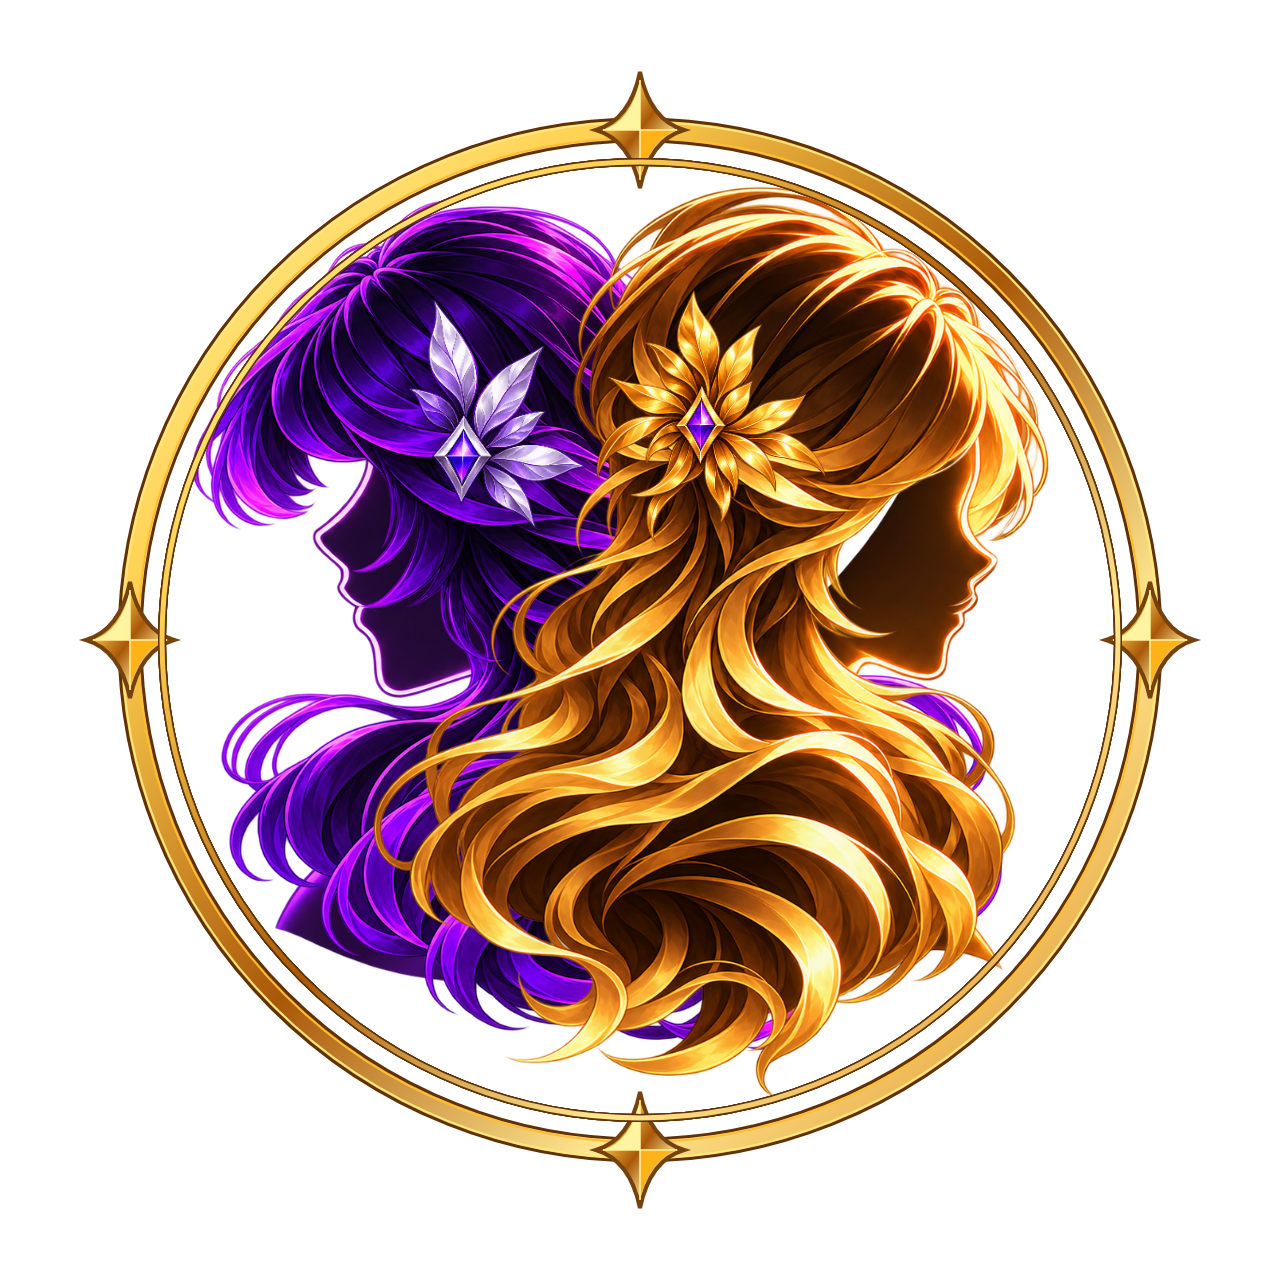
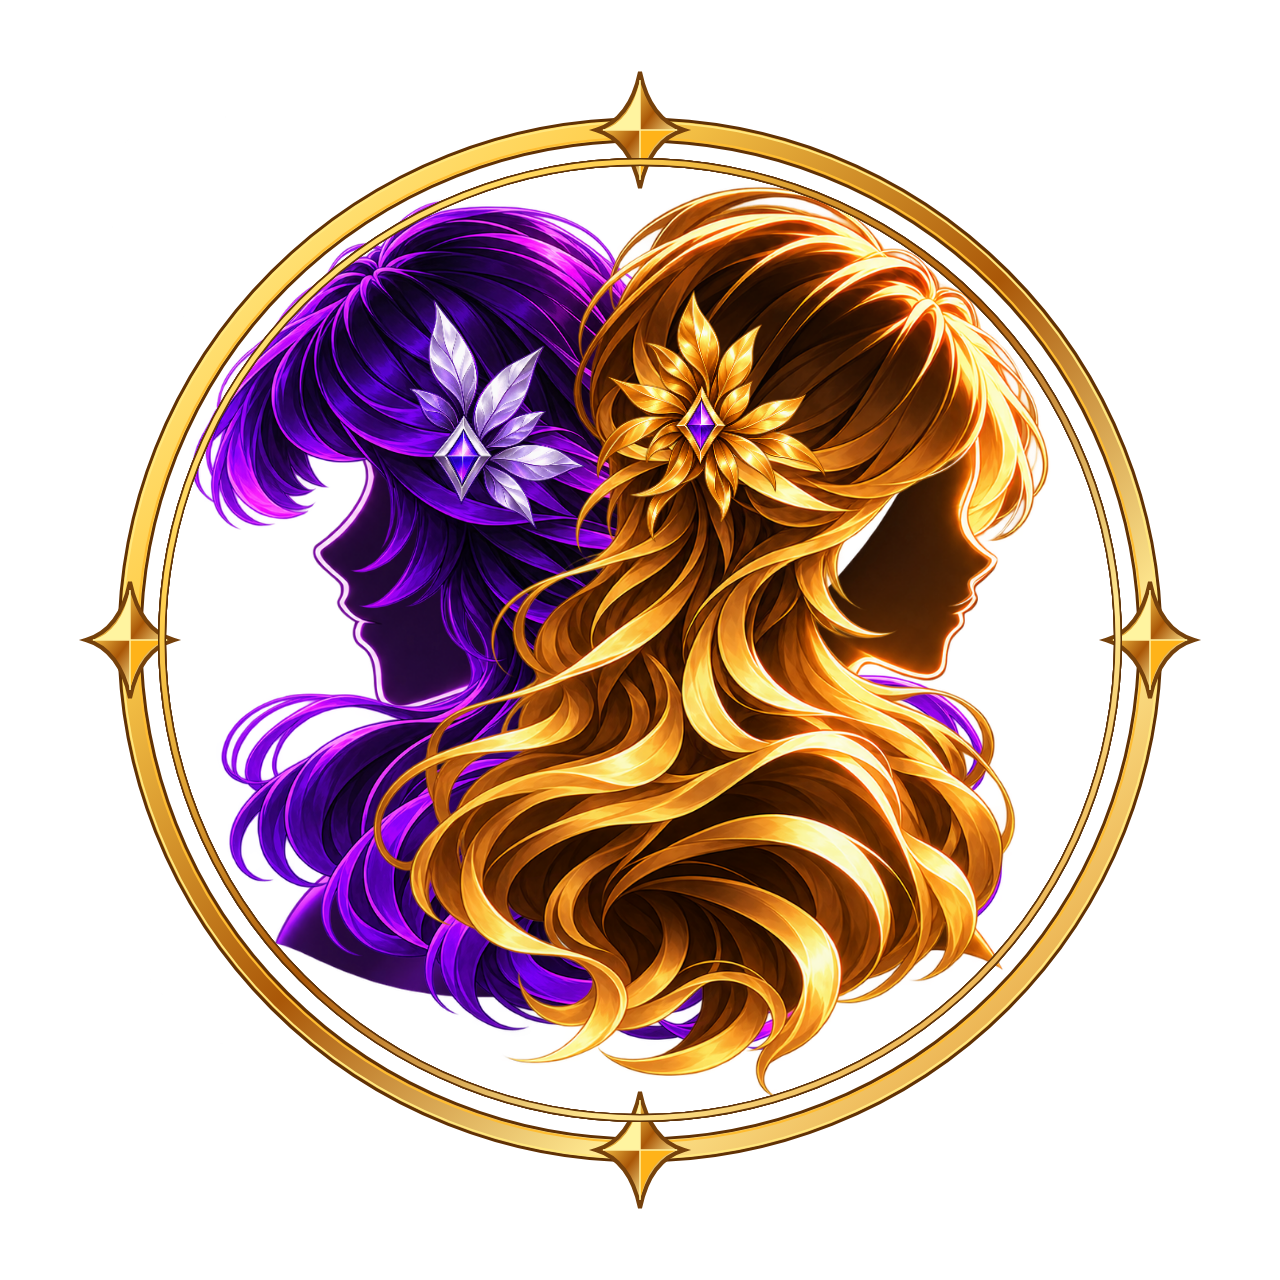
[#221] fix(emblem): align brow highlights and cover the gold ring

Changed region(s): [[0.2188, 0.3438, 0.375, 0.5625], [0.2188, 0.6875, 0.375, 0.7812]]

diff --git a/libs/ui/molecules/src/lib/molecules/emblem-motion-molecule.component.html b/libs/ui/molecules/src/lib/molecules/emblem-motion-molecule.component.html
@@ -80,14 +80,40 @@
           animate.enter="sol-enter"
           animate.leave="sol-leave"
         >
-          <circle class="sol-ring" cx="640" cy="640" r="510" />
+          <defs>
+            <mask
+              [id]="solMaskId"
+              maskUnits="userSpaceOnUse"
+              x="0"
+              y="0"
+              width="1280"
+              height="1280"
+            >
+              <rect width="1280" height="1280" fill="white" />
+              <g fill="black" stroke="black" stroke-width="4">
+                @for (star of solStars; track star) {
+                  <path
+                    [attr.transform]="star"
+                    d="M0 -58 Q10 -10 44 0 Q10 10 0 58 Q-10 10 -44 0 Q-10 -10 0 -58Z"
+                  />
+                }
+              </g>
+            </mask>
+          </defs>
+          <circle
+            class="sol-ring"
+            cx="640"
+            cy="640"
+            r="510"
+            [attr.mask]="'url(#' + solMaskId + ')'"
+          />
           <path
             class="sol-eye"
-            d="M344 508 Q363 493 390 498 Q369 514 344 508Z M916 537 Q940 535 966 553 Q942 553 916 537Z"
+            d="M344 523 Q363 508 390 513 Q369 529 344 523Z M914 510 Q936 504 956 523 Q935 527 914 510Z"
           />
           <path
             class="sol-eye-core"
-            d="M351 506 Q367 498 383 499 Q367 508 351 506Z M924 540 Q941 540 959 550 Q941 548 924 540Z"
+            d="M351 521 Q367 513 383 514 Q367 523 351 521Z M921 512 Q936 509 949 520 Q936 520 921 512Z"
           />
         </svg>
       }

diff --git a/apps/stellar-desktop-e2e/src/assistant-response.spec.ts b/apps/stellar-desktop-e2e/src/assistant-response.spec.ts
@@ -102,10 +102,11 @@ test('waiting restores full presence, long content scrolls intact and Ivy closes
   await expect(page.locator('.sol-ring')).toHaveCount(1);
   await expect(page.locator('.emblem-presence')).toHaveCSS('opacity', '1');
   await expect(page.locator('.camera')).toHaveCSS('opacity', '0.68');
-  await expect(page.locator('.sol-ring')).toHaveCSS(
-    'vector-effect',
-    'non-scaling-stroke',
-  );
+  const redStroke = await page
+    .locator('.sol-ring')
+    .evaluate((element) => parseFloat(getComputedStyle(element).strokeWidth));
+  expect(redStroke).toBeGreaterThanOrEqual(15);
+  expect(redStroke).toBeLessThanOrEqual(19);
   await selectAppearance('terra');
   await expect(page.locator('.sol-ring')).toHaveCount(0);
   await expect(page.locator('.emblem-presence')).toHaveCSS('opacity', '0.68');

diff --git a/libs/ui/molecules/src/lib/molecules/emblem-motion-molecule.component.ts b/libs/ui/molecules/src/lib/molecules/emblem-motion-molecule.component.ts
@@ -28,6 +28,8 @@ import {
   consolidatedClipFiles,
 } from './emblem-motion-model';
 
+let nextEmblemIdentity = 0;
+
 @Component({
   selector: 'stellar-emblem-motion-molecule',
   standalone: true,
@@ -37,6 +39,13 @@ import {
   host: { '[attr.aria-busy]': 'loading()' },
 })
 export class EmblemMotionMolecule {
+  readonly solMaskId = `sol-stars-${++nextEmblemIdentity}`;
+  readonly solStars = [
+    'translate(640 130)',
+    'translate(1150 640)',
+    'translate(640 1150)',
+    'translate(130 640)',
+  ];
   readonly manifest = input<EmblemManifest | null>(null);
   readonly assetBasePath = input('');
   readonly phase = input<Phase>('idle');

diff --git a/libs/ui/molecules/src/lib/molecules/emblem-motion-molecule.component.spec.ts b/libs/ui/molecules/src/lib/molecules/emblem-motion-molecule.component.spec.ts
@@ -112,6 +112,10 @@ describe('EmblemMotionMolecule', () => {
       ring.getAttribute('cy'),
       ring.getAttribute('r'),
     ]).toEqual(['640', '640', '510']);
+    expect(fixture.nativeElement.querySelectorAll('mask path')).toHaveLength(4);
+    expect(ring.getAttribute('mask')).toBe(
+      `url(#${fixture.componentInstance.solMaskId})`,
+    );
     expect(
       fixture.nativeElement
         .querySelector('.sol-eye')

diff --git a/libs/ui/molecules/src/lib/molecules/emblem-motion-molecule.component.css b/libs/ui/molecules/src/lib/molecules/emblem-motion-molecule.component.css
@@ -46,8 +46,7 @@ img {
 .sol-ring {
   fill: none;
   stroke: currentColor;
-  stroke-width: clamp(1.2px, 0.45cqw, 2.5px);
-  vector-effect: non-scaling-stroke;
+  stroke-width: 17;
 }
 .sol-eye {
   fill: currentColor;

diff --git a/apps/stellar-desktop/public/emblem/provenance.md b/apps/stellar-desktop/public/emblem/provenance.md
@@ -2,14 +2,14 @@
 
 Runtime files are byte-identical copies from [the production-v1 source pack](https://github.com/DanielssonThomas/Stellar/blob/develop/libs/stellar-emblem/production-v1/README.md). Issue #176 supplied the hybrid raster artwork and editable SVG geometry; #204 composes its four stars into the outer frame, adds three matching inner circles and assigns eleven uniformly spaced logical planes. #211 divides each existing body into three registered clips, yielding fifteen logical planes over the same eleven image files. The manifest retains production-candidate status. All files share a 1280 square origin and all assembled transforms remain zero. The #221 correction re-registers the two body exports inside their hair apertures; all six generated source cutouts remain unchanged, as do the other four exported raster images.
 
-The exported runtime payload is 2,743,982 bytes for the manifest and eleven unique registered image files. Text newline conventions can change that count on another platform. Original references, generated masters, registration, history and previews remain in the source library. Imagegen supplied the original raster artwork; #221 only changes deterministic registration. Native performance and physical microphones require separate verification.
+The exported runtime payload is 2,744,102 bytes for the manifest and eleven unique registered image files. Text newline conventions can change that count on another platform. Original references, generated masters, registration, history and previews remain in the source library. Imagegen supplied the original raster artwork; #221 only changes deterministic registration. Native performance and physical microphones require separate verification.
 
 Copy integrity was checked byte-for-byte against source files on this checkout. SHA-256 hashes below normalize JSON/SVG text to LF and preserve exact PNG bytes.
 
 | Runtime file               | SHA-256                                                          |
 | -------------------------- | ---------------------------------------------------------------- |
 | manifest.json              | 5d19f26cbeb4bd01eaa4cec1963eaaecb281087179b36b0c537128e3ef2dd992 |
-| layers/violet-body.png     | a32c4cc76d2472fb4fe71403e0c510f4f7594b42eb2c9ca846fe543f2b46e3a4 |
+| layers/violet-body.png     | 318828597ccfe042fb74919efdd5d7b519f1ba07e8d986c30bec4c0a1af00bf9 |
 | layers/violet-hair.png     | 5ca76606302c0758dd55b520c5ce0cd751bda9e9b8c827ff2e78920c19938da3 |
 | layers/violet-ornament.png | 693fdcba33e399e0585d05c27ca3fac38b93bd66d4d61c0cd08ecdd0647d09ef |
 | layers/gold-body.png       | e4f0044e8b4a320b312c0071596cf0d91912136915cb322fec9dd96446aa3e9c |

diff --git a/libs/stellar-emblem/production-v1/README.md b/libs/stellar-emblem/production-v1/README.md
@@ -28,7 +28,7 @@ The original #176 independent image-capable review accepted the visual direction
 
 ## Registered face fragmentation (#211)
 
-The #221 candidate moves the gold ornament in front of its own hair in the exploded depth order. Previously its depth stayed behind the hair until every plane reached zero, at which point paint order abruptly made it visible. Both ornaments now retain the same front-to-back relationship during assembly. It also raises the violet body by 50 source units and moves it right by 9, and raises the gold body by 30 units and moves it right by 7. This re-registers the untouched source cutouts inside their hair apertures and aligns the gold nose with the existing hair contour. The two body exports and composed previews change; the six original generated sources and all other exported images retain their original pixels. Every assembled transform remains zero. Native evidence and comparison with the supplied canonical reference determine visual acceptance, not the zero-pose invariant alone.
+The #221 candidate moves the gold ornament in front of its own hair in the exploded depth order. Previously its depth stayed behind the hair until every plane reached zero, at which point paint order abruptly made it visible. Both ornaments now retain the same front-to-back relationship during assembly. It also raises the violet body by 35 source units and moves it right by 9, and raises the gold body by 30 units and moves it right by 7. This re-registers the untouched source cutouts inside their hair apertures and aligns the gold nose with the existing hair contour. The two body exports and composed previews change; the six original generated sources and all other exported images retain their original pixels. Every assembled transform remains zero. Native evidence and comparison with the supplied canonical reference determine visual acceptance, not the zero-pose invariant alone.
 
 The emblem molecule also accepts an explicit `solActive` presentation input. Once assembly actually settles, it reveals a single red circle concentric with the existing outer gold circle and two narrow eye glints; the effect scales with the emblem, fades on removal and respects reduced motion. The app binds this input to the restored persistent voice composition model, including explicit Sol drafting and confirmed reset to Terra. This input communicates selected intent and does not itself verify the actual inference provider or model.
 
